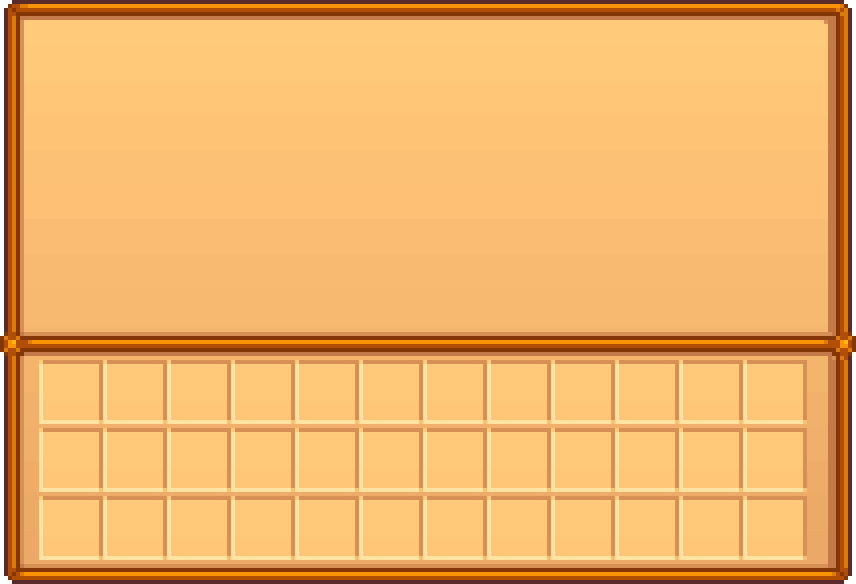
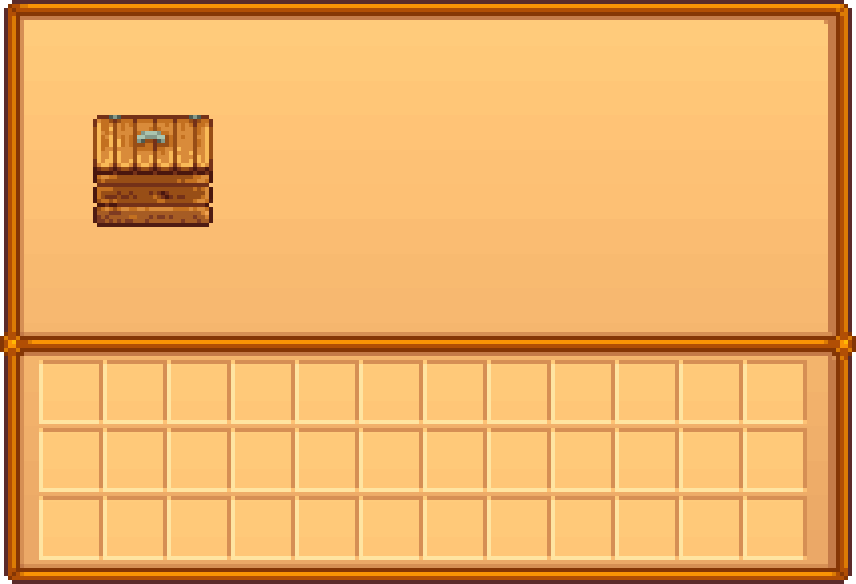
Sell menu

Changed region(s): [[0.0911, 0.1849, 0.2734, 0.4007]]

diff --git a/core/src/main/java/com/ap_project/client/views/game/SellMenuView.java b/core/src/main/java/com/ap_project/client/views/game/SellMenuView.java
@@ -7,17 +7,20 @@ import com.ap_project.common.models.*;
 import com.badlogic.gdx.Gdx;
 import com.badlogic.gdx.InputProcessor;
 import com.badlogic.gdx.Screen;
+import com.badlogic.gdx.graphics.Color;
 import com.badlogic.gdx.scenes.scene2d.Stage;
 import com.badlogic.gdx.scenes.scene2d.ui.Image;
+import com.badlogic.gdx.scenes.scene2d.ui.Label;
+import com.badlogic.gdx.scenes.scene2d.ui.SelectBox;
+import com.badlogic.gdx.scenes.scene2d.ui.TextButton;
+import com.badlogic.gdx.utils.Array;
+import com.badlogic.gdx.utils.ScreenUtils;
 import com.badlogic.gdx.utils.viewport.ScreenViewport;
 
 import java.util.ArrayList;
 
-import static com.ap_project.Main.getBatch;
 import static com.ap_project.Main.getMain;
 import static com.ap_project.client.views.game.GameMenuView.hoverOnImage;
-
-
 
 public class SellMenuView implements Screen, InputProcessor {
     private Stage stage;
@@ -25,24 +28,42 @@ public class SellMenuView implements Screen, InputProcessor {
     private final ArrayList<Item> items;
     private final ArrayList<Image> itemImages;
     private final Image closeButton;
-    private final NPC npc;
-    private final VillageView villageView;
+    private final FarmView farmView;
     private final GameController controller;
+    private Item itemToSell;
+    private Image itemToSellImage;
+    private final SelectBox<Integer> quantityBox;
+    private final Image emptySlot;
+    private final TextButton sellButton;
+    private final Label errorMessageLabel;
 
-    public SellMenuView(VillageView villageView, NPC npc) {
-        this.villageView = villageView;
+    public SellMenuView(FarmView farmView, FarmBuilding shippingBin) {
         this.window = new Image(GameAssetManager.getGameAssetManager().getSellMenu());
         float windowX = (Gdx.graphics.getWidth() - window.getWidth()) / 2;
         float windowY = (Gdx.graphics.getHeight() - window.getHeight()) / 2;
         window.setPosition(windowX, windowY);
-        this.npc = npc;
+
+        this.closeButton = new Image(GameAssetManager.getGameAssetManager().getCloseButton());
+
         this.items = new ArrayList<>(App.getLoggedIn().getBackpack().getItems().keySet());
         this.itemImages = new ArrayList<>();
         for (Item item : items) {
             itemImages.add(new Image(GameAssetManager.getGameAssetManager().getTextureByItem(item)));
         }
+
+        this.quantityBox = new SelectBox<>(GameAssetManager.getGameAssetManager().getSkin());
+        quantityBox.setWidth(200);
+
+        this.sellButton = new TextButton("Sell", GameAssetManager.getGameAssetManager().getSkin());
+
+        this.emptySlot = new Image(GameAssetManager.getGameAssetManager().getEmptySlot());;
+
+        this.errorMessageLabel = new Label("", GameAssetManager.getGameAssetManager().getSkin());
+        errorMessageLabel.setColor(Color.RED);
+        errorMessageLabel.setPosition(10, Gdx.graphics.getHeight() - 20);
+
         this.controller = new GameController();
-        this.closeButton = new Image(GameAssetManager.getGameAssetManager().getCloseButton());
+        this.farmView = farmView;
     }
 
     @Override
@@ -52,29 +73,56 @@ public class SellMenuView implements Screen, InputProcessor {
 
         stage.addActor(window);
 
-        int columns = 12;
-        float spacingX = 64;
-        float spacingY = 70;
-        float startX = window.getX() + 60;
-        float startY = window.getY() + window.getHeight() - 130;
+        emptySlot.setPosition(
+            window.getX() + 200,
+            window.getY() + window.getHeight() - 200
+        );
+        stage.addActor(emptySlot);
 
-        for (int i = 0; i < itemImages.size(); i++) {
-            Image image = itemImages.get(i);
-            image.setSize(50, 55);
-            float x = startX + (i % columns) * spacingX- 20f;
-            float y = startY - (i / columns) * spacingY + 50f;
-            image.setPosition(x, y);
+        Label quantityLabel = new Label("Quantity:", GameAssetManager.getGameAssetManager().getSkin());
+        quantityLabel.setColor(Color.BLACK);
+        quantityLabel.setPosition(
+            window.getX() + 300,
+            window.getY() + window.getHeight() - 200
+        );
+        stage.addActor(quantityLabel);
 
-            stage.addActor(image);
-        }
+        quantityBox.setPosition(
+            window.getX() + 700,
+            window.getY() + window.getHeight() - 200
+        );
+        stage.addActor(quantityBox);
+
+        addItemsToInventory();
+
+        sellButton.setPosition(
+            window.getX() + window.getWidth() / 2,
+            window.getY() + window.getHeight() - 400
+        );
+        stage.addActor(sellButton);
 
         addCloseButton();
     }
 
     @Override
     public void render(float delta) {
-        getBatch().begin();
-        getBatch().end();
+        ScreenUtils.clear(0, 0, 0, 1);
+
+        if (itemToSell != null) {
+            itemToSellImage.setPosition(
+              emptySlot.getX(),
+              emptySlot.getY()
+            );
+            stage.addActor(itemToSellImage);
+            Gdx.input.setInputProcessor(stage);
+
+            if (sellButton.isChecked()) {
+                int quantity = quantityBox.getSelected();
+                controller.sell(itemToSell, quantity);
+            }
+        } else {
+            Gdx.input.setInputProcessor(this);
+        }
 
         stage.act(Math.min(Gdx.graphics.getDeltaTime(), 1 / 30f));
         stage.draw();
@@ -85,22 +133,20 @@ public class SellMenuView implements Screen, InputProcessor {
         float convertedY = Gdx.graphics.getHeight() - screenY;
 
         if (hoverOnImage(closeButton, screenX, convertedY)) {
-            getMain().setScreen(villageView);
+            getMain().setScreen(farmView);
             return true;
         }
 
         for (int i = 0; i < itemImages.size(); i++) {
             Image image = itemImages.get(i);
             if (hoverOnImage(image, screenX, convertedY)) {
-                Item selectedItem = items.get(i);
-                Result result = controller.giftNPC(npc.getName(), selectedItem.getName());
-                if (result.success) {
-                    villageView.setNpcWithGift(npc);
-                    getMain().setScreen(villageView);
-                    return true;
-                } else {
-                    System.out.println(result.message);
+                itemToSell = items.get(i);
+                itemToSellImage = new Image(GameAssetManager.getGameAssetManager().getTextureByItem(itemToSell));
+                Array<Integer> options = new Array<>();
+                for (int j = 1; j < App.getLoggedIn().getBackpack().getItems().get(itemToSell); j++) {
+                    options.add(j);
                 }
+                quantityBox.setItems(options);
             }
         }
 
@@ -178,5 +224,23 @@ public class SellMenuView implements Screen, InputProcessor {
     @Override
     public boolean scrolled(float amountX, float amountY) {
         return false;
+    }
+
+    private void addItemsToInventory() {
+        int columns = 12;
+        float spacingX = 64;
+        float spacingY = 70;
+        float startX = window.getX() + 60;
+        float startY = window.getY() + window.getHeight() - 400;
+
+        for (int i = 0; i < itemImages.size(); i++) {
+            Image image = itemImages.get(i);
+            image.setSize(50, 55);
+            float x = startX + (i % columns) * spacingX- 20f;
+            float y = startY - (i / columns) * spacingY + 50f;
+            image.setPosition(x, y);
+
+            stage.addActor(image);
+        }
     }
 }

diff --git a/core/src/main/java/com/ap_project/Main.java b/core/src/main/java/com/ap_project/Main.java
@@ -121,13 +121,17 @@ public class Main extends Game {
         Main.getMain().setScreen(new GiveGiftMenuView(villageView, npc));
     }
 
-    public static void goToShopMenu(GameView gameView, Shop shop) {Main.getMain().setScreen(new ShopMenuView(gameView, shop));}
+    public static void goToShopMenu(GameView gameView, Shop shop) {
+        Main.getMain().setScreen(new ShopMenuView(gameView, shop));
+    }
 
-    public static void goToPurchaseMenu(GameView gameView, Shop shop) {Main.getMain().setScreen(new ShopMenuView(gameView, shop));}
+    public static void goToPurchaseMenu(GameView gameView, Shop shop) {
+        Main.getMain().setScreen(new ShopMenuView(gameView, shop));
+    }
 
-    public static void goToSellMenu(GameView gameView, Shop shop) {Main.getMain().setScreen(new ShopMenuView(gameView, shop));}
-
-
+    public static void goToSellMenu(FarmView farmView, FarmBuilding shippingBin) {
+        Main.getMain().setScreen(new SellMenuView(farmView, shippingBin));
+    }
 
     public static void goToCookingMenu(GameView gameView) {
         Main.getMain().setScreen(new CookingMenuView(gameView));
@@ -168,6 +172,7 @@ public class Main extends Game {
     public static void goToArtisanMenu(FarmView farmView, Artisan artisan) {
         Main.getMain().setScreen(new ArtisanMenuView(farmView, artisan));
     }
+
     public static void goToCheatWindow(GameView gameView, GameController controller) {
         Main.getMain().setScreen(new CheatView(gameView, controller));
     }

diff --git a/core/src/main/java/com/ap_project/client/views/game/FarmView.java b/core/src/main/java/com/ap_project/client/views/game/FarmView.java
@@ -392,14 +392,17 @@ public class FarmView extends GameView {
         for (int i = 0; i < farm.getFarmBuildings().size(); i++) {
             FarmBuilding farmBuilding = farm.getFarmBuildings().get(i);
             Position farmBuildingPosition = new Position(farmBuilding.getPositionOfUpperLeftCorner());
+            if (farmBuilding.getFarmBuildingType() == FarmBuildingType.SHIPPING_BIN) {
+                if (clickedOnTexture(screenX, screenY, farmBuildingsTextures.get(i), farmBuildingPosition, 1)) {
+                    if (farmBuilding.getFarmBuildingType() == FarmBuildingType.SHIPPING_BIN) {
+                        goToSellMenu(this, farmBuilding);
+                    }
+                }
+            }
             if (clickedOnTexture(screenX, screenY, farmBuildingsTextures.get(i), farmBuildingPosition, scale)) {
                 if (farmBuilding.getFarmBuildingType().getCapacity() != 0) {
                     AnimalLivingSpace animalLivingSpace = (AnimalLivingSpace) farmBuilding;
                     goToAnimalLivingSpaceMenu(this, animalLivingSpace);
-                }
-
-                if (farmBuilding.getFarmBuildingType() == FarmBuildingType.SHIPPING_BIN) {
-                    // goToSellMenu(); TODO
                 }
                 return true;
             }

diff --git a/core/src/main/java/com/ap_project/client/controllers/GameController.java b/core/src/main/java/com/ap_project/client/controllers/GameController.java
@@ -1788,6 +1788,34 @@ public class GameController {
             "You will get " + price + "g tomorrow.");
     }
 
+    public Result sell(Item item, int count) {
+        User player = App.getLoggedIn();
+        if (!player.getBackpack().getItems().containsKey(item)) {
+            return new Result(false, "Product not found.");
+        }
+
+        int numberInInventory = player.getBackpack().getItems().get(item);
+
+        if (!item.isSellable()) {
+            return new Result(false, "This product can not be sold.");
+        }
+
+
+        Result result = player.getBackpack().addToInventory(item, count);
+        if (!result.success) {
+            return new Result(false, "You don't have enough " + item + " to sell.");
+        }
+
+        for (int i = 0; i < count; i++) {
+            //shippingBin.addItemToShip(item); // TODO
+        }
+
+        int price = item.getPrice() * count;
+
+        return new Result(true, "You put " + count + " of " + item + " in the shipping bin. " +
+            "You will get " + price + "g tomorrow.");
+    }
+
     // === FRIENDSHIPS === //
 
     public Result showFriendshipLevels() {

diff --git a/core/src/main/java/com/ap_project/client/views/game/ArtisanMenuView.java b/core/src/main/java/com/ap_project/client/views/game/ArtisanMenuView.java
@@ -99,7 +99,6 @@ public class ArtisanMenuView implements Screen, InputProcessor {
         );
         stage.addActor(emptySlot);
 
-
         startButton.setPosition(
             name.getX() + (name.getWidth() - startButton.getWidth()) / 2,
             status.getY() - 180
